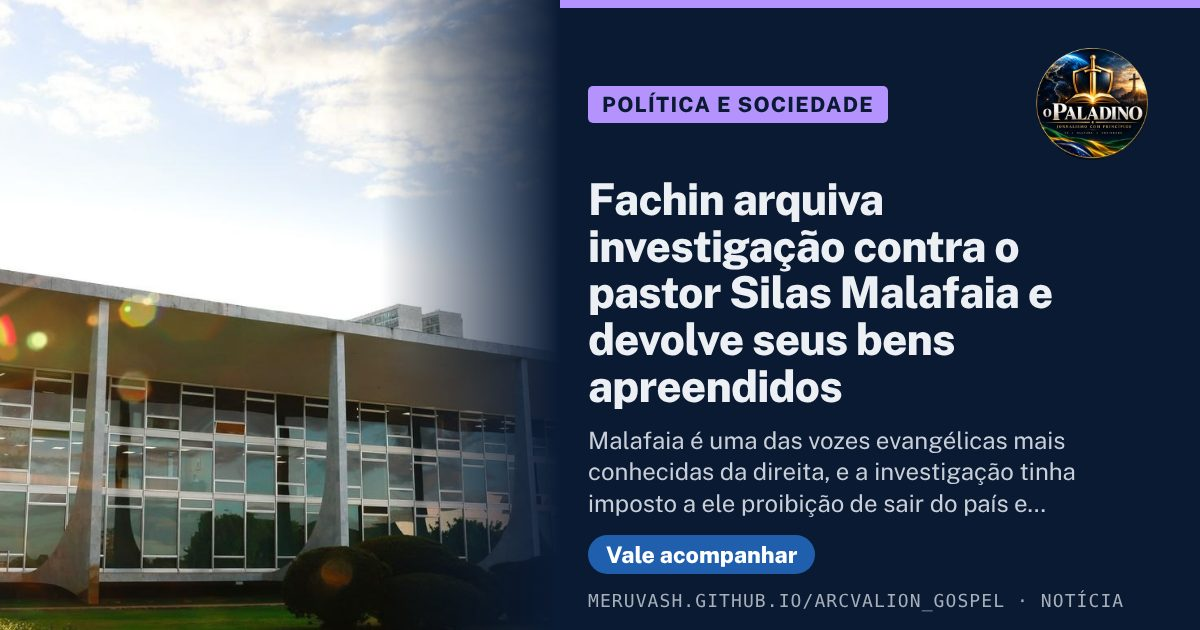
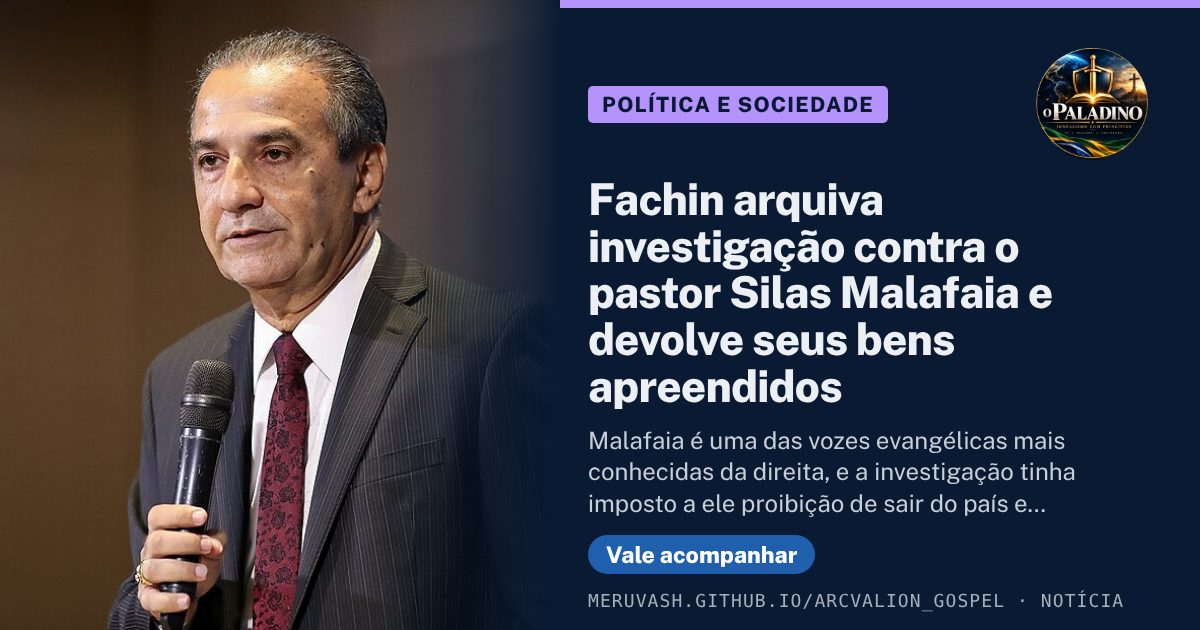
Notícia do Malafaia com foto do pastor (Marcos Corrêa, 2019, CC BY 2.0, via Wikimedia Commons)
Claude-Session: https://claude.ai/code/session_01BFQNqjMsQSaTiZZGcaG66D

diff --git a/noticias/index.html b/noticias/index.html
@@ -278,7 +278,7 @@ footer .in{display:flex;flex-wrap:wrap;gap:10px 20px;padding-top:18px;padding-bo
   <p class="opina"><span class="selo acompanhar">Vale acompanhar</span> A gente apoia o projeto: um em cada quatro brasileiros é evangélico, e a data que mudou o cristianismo cabe no calendário nacional. Mas feriado sem Bíblia aberta vira folga. O valor está em as igrejas usarem o dia para ensinar o que a Reforma devolveu ao povo.</p>
   <span class="meta">29 de outubro de 2026 · Senado Federal</span><span class="credito">Retrato de Martinho Lutero por Lucas Cranach, o Velho (1528), Veste Coburg, via Wikimedia Commons (domínio público)</span></div>
  </a></article>
- <ul class="grade-n"><li class="card-n" data-cat="politica-e-sociedade"><a href="../noticias/fachin-arquiva-investigacao-silas-malafaia/"><span class="ci"><img src="../noticias/capas/fachin-arquiva-investigacao-silas-malafaia.jpg" srcset="../img/noticias/capas/fachin-arquiva-investigacao-silas-malafaia-c439e912-480.webp 480w, ../noticias/capas/fachin-arquiva-investigacao-silas-malafaia.jpg 1600w" sizes="(min-width: 1000px) 270px, (min-width: 600px) 31vw, 46vw" alt="" loading="lazy" decoding="async"></span><span class="cb"><span class="cat financ">Política e Sociedade</span><h2>Fachin arquiva investigação contra o pastor Silas Malafaia e devolve seus bens apreendidos</h2><span class="selo acompanhar">Vale acompanhar</span><span class="resumo">Malafaia é uma das vozes evangélicas mais conhecidas da direita, e a investigação tinha imposto a ele proibição de sair do país e apreensão de bens desde agosto de 2025. O arquivamento, pedido pela própria PGR, mostra que a hipótese da investigação não se confirmou. Para quem acompanha a relação entre igreja, política e Judiciário, é um desfecho que precisa ser registrado com o mesmo destaque da acusação.</span><span class="meta">30/10 · Supremo Tribunal Federal</span></span></a></li><li class="card-n" data-cat="familia-e-valores"><a href="../noticias/stj-dna-nao-basta-trocar-pai-registro/"><span class="ci"><img src="../noticias/capas/stj-dna-nao-basta-trocar-pai-registro.jpg" srcset="../img/noticias/capas/stj-dna-nao-basta-trocar-pai-registro-a02378e7-480.webp 480w, ../noticias/capas/stj-dna-nao-basta-trocar-pai-registro.jpg 1600w" sizes="(min-width: 1000px) 270px, (min-width: 600px) 31vw, 46vw" alt="" loading="lazy" decoding="async"></span><span class="cb"><span class="cat brasil">Família e Valores</span><h2>STJ decide que DNA e acordo não bastam para trocar pai no registro de criança</h2><span class="selo compra">Boa notícia</span><span class="resumo">A decisão trata a paternidade como mais do que biologia ou papel assinado. Quem registrou e criou uma criança não some do documento por um acerto entre adultos. Para a família, é proteção: a criança não troca de pai no cartório sem que um juiz ouça o Ministério Público e examine a relação que ela já tem com quem a criou.</span><span class="meta">30/10 · Superior Tribunal de Justiça</span></span></a></li><li class="card-n" data-cat="politica-e-sociedade"><a href="../noticias/stf-derruba-regra-rondonia-minimo-educacao/"><span class="ci"><img src="../noticias/capas/stf-derruba-regra-rondonia-minimo-educacao.jpg" srcset="../img/noticias/capas/stf-derruba-regra-rondonia-minimo-educacao-c439e912-480.webp 480w, ../noticias/capas/stf-derruba-regra-rondonia-minimo-educacao.jpg 1600w" sizes="(min-width: 1000px) 270px, (min-width: 600px) 31vw, 46vw" alt="" loading="lazy" decoding="async"></span><span class="cb"><span class="cat financ">Política e Sociedade</span><h2>STF derruba regra que deixava Rondônia contar no mínimo da educação gastos pagos no ano seguinte</h2><span class="selo acompanhar">Vale acompanhar</span><span class="resumo">O piso de 25% para a educação só protege o aluno se for medido no ano certo. Gasto contado num ano e pago no outro deixa o Tribunal de Contas conferindo uma conta que ainda não fechou. Com a decisão, o dinheiro das escolas de Rondônia volta a ser medido pela régua da lei federal.</span><span class="meta">29/10 · Supremo Tribunal Federal</span></span></a></li><li class="card-n" data-cat="familia-e-valores"><a href="../noticias/virginia-pastor-processa-emenda-casamento/"><span class="ci"><img src="../noticias/capas/virginia-pastor-processa-emenda-casamento.jpg" srcset="../img/noticias/capas/virginia-pastor-processa-emenda-casamento-eeef7312-480.webp 480w, ../noticias/capas/virginia-pastor-processa-emenda-casamento.jpg 1280w" sizes="(min-width: 1000px) 270px, (min-width: 600px) 31vw, 46vw" alt="" loading="lazy" decoding="async"></span><span class="cb"><span class="cat brasil">Família e Valores</span><h2>Pastor da Virgínia pede à Justiça que invalide emenda do casamento votada na terça</h2><span class="selo acompanhar">Vale acompanhar</span><span class="resumo">O processo não discute a Bíblia, discute o rito, e é aí que mora a força dele: quem quer mudar a Constituição precisa cumprir a regra que a própria Constituição impõe. Defender o casamento passa por convencer pessoas, não por atalho. E a regra vale para os dois lados: quem cobra o rito não pode pedir exceção depois.</span><span class="meta">29/10 · Founding Freedoms Law Center</span></span></a></li><li class="card-n" data-cat="noticias-gospel"><a href="../noticias/bispos-eua-discipulos-de-jesus-primeiro/"><span class="ci"><img src="../noticias/capas/bispos-eua-discipulos-de-jesus-primeiro.jpg" srcset="../img/noticias/capas/bispos-eua-discipulos-de-jesus-primeiro-ffe4b426-480.webp 480w, ../noticias/capas/bispos-eua-discipulos-de-jesus-primeiro.jpg 720w" sizes="(min-width: 1000px) 270px, (min-width: 600px) 31vw, 46vw" alt="" loading="lazy" decoding="async"></span><span class="cb"><span class="cat mercado">Notícias Gospel</span><h2>Bispos dos EUA aos católicos antes da eleição: discípulos de Jesus primeiro, partido depois</h2><span class="selo fas">Para refletir</span><span class="resumo">A frase serve para cristão de qualquer país, inclusive o Brasil, que acabou de votar: o partido não é a igreja. Quem põe Cristo primeiro não precisa concordar com tudo de um lado para votar nele, nem demonizar quem votou diferente. Fé que só aparece em ano de eleição vira torcida.</span><span class="meta">29/10 · USCCB</span></span></a></li><li class="card-n" data-cat="politica-e-sociedade"><a href="../noticias/stf-audiencia-bets-dez-clubes-nenhum-orgao-de-saude/"><span class="ci"><img src="../noticias/capas/stf-audiencia-bets.jpg" srcset="../img/noticias/capas/stf-audiencia-bets-c439e912-480.webp 480w, ../noticias/capas/stf-audiencia-bets.jpg 1600w" sizes="(min-width: 1000px) 270px, (min-width: 600px) 31vw, 46vw" alt="" loading="lazy" decoding="async"></span><span class="cb"><span class="cat financ">Política e Sociedade</span><h2>STF ouvirá dez clubes e nenhum órgão de saúde na audiência sobre a proibição das bets</h2><span class="selo acompanhar">Vale acompanhar</span><span class="resumo">A tese da gente é simples: quem decide sobre vício precisa ouvir quem trata o vício. A própria exposição de motivos da MP fala em ansiedade, depressão, endividamento e risco de suicídio. Mesmo assim, o Ministério da Saúde não está na lista de oradores; a Portuguesa está, com dez minutos. A conta da aposta chega ao consultório; o microfone ficou no estádio.</span><span class="meta">29/10 · Supremo Tribunal Federal</span></span></a></li><li class="card-n" data-cat="politica-e-sociedade"><a href="../noticias/lesbocidio-pena-menor-que-feminicidio/"><span class="ci"><img src="../noticias/capas/lesbocidio-pena-menor-que-feminicidio.jpg" srcset="../img/noticias/capas/lesbocidio-pena-menor-que-feminicidio-4cffd854-480.webp 480w, ../noticias/capas/lesbocidio-pena-menor-que-feminicidio.jpg 1600w" sizes="(min-width: 1000px) 270px, (min-width: 600px) 31vw, 46vw" alt="" loading="lazy" decoding="async"></span><span class="cb"><span class="cat financ">Política e Sociedade</span><h2>Comissão da Câmara aprova crime de lesbocídio com pena menor que a do feminicídio</h2><span class="selo fas">Para refletir</span><span class="resumo">A conta que não aparece na notícia oficial da Câmara é simples: matar uma mulher por menosprezo à condição de mulher já dá de 20 a 40 anos. O projeto apresentado para proteger as lésbicas põe o crime na faixa de 12 a 30. Nome novo com pena menor não é proteção reforçada; é placa nova em porta velha.</span><span class="meta">29/10 · Câmara dos Deputados</span></span></a></li><li class="card-n" data-cat="familia-e-valores"><a href="../noticias/canada-c41-barra-eutanasia-por-doenca-mental/"><span class="ci"><img src="../noticias/capas/canada-c41-eutanasia.jpg" srcset="../img/noticias/capas/canada-c41-eutanasia-f837df2f-480.webp 480w, ../noticias/capas/canada-c41-eutanasia.jpg 1280w" sizes="(min-width: 1000px) 270px, (min-width: 600px) 31vw, 46vw" alt="" loading="lazy" decoding="async"></span><span class="cb"><span class="cat brasil">Família e Valores</span><h2>Canadá apresenta projeto que barra eutanásia só por doença mental, mas libera pedido antecipado</h2><span class="selo fas">Para refletir</span><span class="resumo">Desde 2016 o Canadá permite e vem ampliando a morte assistida. Recuar na doença mental mostra que os alertas de médicos e famílias pesaram. Só que o mesmo projeto abre outra porta, a do pedido antecipado, e o debate sobre o valor da vida no fim dela continua aberto.</span><span class="meta">29/10 · Governo do Canadá</span></span></a></li><li class="card-n" data-cat="noticias-gospel"><a href="../noticias/pew-religiao-estavel-jovens-eua/"><span class="ci"><img src="../noticias/capas/pew-religiao-jovens-eua.jpg" srcset="../img/noticias/capas/pew-religiao-jovens-eua-7a5e526b-480.webp 480w, ../noticias/capas/pew-religiao-jovens-eua.jpg 1280w" sizes="(min-width: 1000px) 270px, (min-width: 600px) 31vw, 46vw" alt="" loading="lazy" decoding="async"></span><span class="cb"><span class="cat mercado">Notícias Gospel</span><h2>Pew: religião se estabiliza nos EUA, e os adultos mais jovens vão mais à igreja</h2><span class="selo compra">Boa notícia</span><span class="resumo">Durante anos, a manchete foi a mesma: a igreja americana perde gente. Os números agora param de cair, e a geração mais nova volta aos bancos com mais frequência que a anterior. Não é avivamento, avisa o próprio instituto, mas é um freio que muita gente dava como impossível.</span><span class="meta">29/10 · Pew Research Center</span></span></a></li><li class="card-n" data-cat="familia-e-valores"><a href="../noticias/comissao-aprova-continuidade-estudos-vitimas-violencia-escola/"><span class="ci"><img src="../noticias/capas/camara-pl-2359-violencia-escolas.jpg" srcset="../img/noticias/capas/camara-pl-2359-violencia-escolas-d3634074-480.webp 480w, ../noticias/capas/camara-pl-2359-violencia-escolas.jpg 3244w" sizes="(min-width: 1000px) 270px, (min-width: 600px) 31vw, 46vw" alt="" loading="lazy" decoding="async"></span><span class="cb"><span class="cat brasil">Família e Valores</span><h2>Comissão da Câmara aprova regras para vítima de violência na escola continuar estudando</h2><span class="selo compra">Boa notícia</span><span class="resumo">Hoje, quem sofre violência na escola muitas vezes é quem acaba saindo dela, perdendo o ano e os amigos. O projeto inverte a lógica: a vítima fica protegida e continua estudando. Para pais e para quem cuida de crianças na igreja, é uma proteção concreta, e não só um discurso.</span><span class="meta">29/10 · Câmara dos Deputados</span></span></a></li></ul>
+ <ul class="grade-n"><li class="card-n" data-cat="politica-e-sociedade"><a href="../noticias/fachin-arquiva-investigacao-silas-malafaia/"><span class="ci"><img src="../noticias/capas/malafaia-2019.jpg" srcset="../img/noticias/capas/malafaia-2019-a55150c1-480.webp 480w, ../noticias/capas/malafaia-2019.jpg 960w" sizes="(min-width: 1000px) 270px, (min-width: 600px) 31vw, 46vw" alt="" loading="lazy" decoding="async"></span><span class="cb"><span class="cat financ">Política e Sociedade</span><h2>Fachin arquiva investigação contra o pastor Silas Malafaia e devolve seus bens apreendidos</h2><span class="selo acompanhar">Vale acompanhar</span><span class="resumo">Malafaia é uma das vozes evangélicas mais conhecidas da direita, e a investigação tinha imposto a ele proibição de sair do país e apreensão de bens desde agosto de 2025. O arquivamento, pedido pela própria PGR, mostra que a hipótese da investigação não se confirmou. Para quem acompanha a relação entre igreja, política e Judiciário, é um desfecho que precisa ser registrado com o mesmo destaque da acusação.</span><span class="meta">30/10 · Supremo Tribunal Federal</span></span></a></li><li class="card-n" data-cat="familia-e-valores"><a href="../noticias/stj-dna-nao-basta-trocar-pai-registro/"><span class="ci"><img src="../noticias/capas/stj-dna-nao-basta-trocar-pai-registro.jpg" srcset="../img/noticias/capas/stj-dna-nao-basta-trocar-pai-registro-a02378e7-480.webp 480w, ../noticias/capas/stj-dna-nao-basta-trocar-pai-registro.jpg 1600w" sizes="(min-width: 1000px) 270px, (min-width: 600px) 31vw, 46vw" alt="" loading="lazy" decoding="async"></span><span class="cb"><span class="cat brasil">Família e Valores</span><h2>STJ decide que DNA e acordo não bastam para trocar pai no registro de criança</h2><span class="selo compra">Boa notícia</span><span class="resumo">A decisão trata a paternidade como mais do que biologia ou papel assinado. Quem registrou e criou uma criança não some do documento por um acerto entre adultos. Para a família, é proteção: a criança não troca de pai no cartório sem que um juiz ouça o Ministério Público e examine a relação que ela já tem com quem a criou.</span><span class="meta">30/10 · Superior Tribunal de Justiça</span></span></a></li><li class="card-n" data-cat="politica-e-sociedade"><a href="../noticias/stf-derruba-regra-rondonia-minimo-educacao/"><span class="ci"><img src="../noticias/capas/stf-derruba-regra-rondonia-minimo-educacao.jpg" srcset="../img/noticias/capas/stf-derruba-regra-rondonia-minimo-educacao-c439e912-480.webp 480w, ../noticias/capas/stf-derruba-regra-rondonia-minimo-educacao.jpg 1600w" sizes="(min-width: 1000px) 270px, (min-width: 600px) 31vw, 46vw" alt="" loading="lazy" decoding="async"></span><span class="cb"><span class="cat financ">Política e Sociedade</span><h2>STF derruba regra que deixava Rondônia contar no mínimo da educação gastos pagos no ano seguinte</h2><span class="selo acompanhar">Vale acompanhar</span><span class="resumo">O piso de 25% para a educação só protege o aluno se for medido no ano certo. Gasto contado num ano e pago no outro deixa o Tribunal de Contas conferindo uma conta que ainda não fechou. Com a decisão, o dinheiro das escolas de Rondônia volta a ser medido pela régua da lei federal.</span><span class="meta">29/10 · Supremo Tribunal Federal</span></span></a></li><li class="card-n" data-cat="familia-e-valores"><a href="../noticias/virginia-pastor-processa-emenda-casamento/"><span class="ci"><img src="../noticias/capas/virginia-pastor-processa-emenda-casamento.jpg" srcset="../img/noticias/capas/virginia-pastor-processa-emenda-casamento-eeef7312-480.webp 480w, ../noticias/capas/virginia-pastor-processa-emenda-casamento.jpg 1280w" sizes="(min-width: 1000px) 270px, (min-width: 600px) 31vw, 46vw" alt="" loading="lazy" decoding="async"></span><span class="cb"><span class="cat brasil">Família e Valores</span><h2>Pastor da Virgínia pede à Justiça que invalide emenda do casamento votada na terça</h2><span class="selo acompanhar">Vale acompanhar</span><span class="resumo">O processo não discute a Bíblia, discute o rito, e é aí que mora a força dele: quem quer mudar a Constituição precisa cumprir a regra que a própria Constituição impõe. Defender o casamento passa por convencer pessoas, não por atalho. E a regra vale para os dois lados: quem cobra o rito não pode pedir exceção depois.</span><span class="meta">29/10 · Founding Freedoms Law Center</span></span></a></li><li class="card-n" data-cat="noticias-gospel"><a href="../noticias/bispos-eua-discipulos-de-jesus-primeiro/"><span class="ci"><img src="../noticias/capas/bispos-eua-discipulos-de-jesus-primeiro.jpg" srcset="../img/noticias/capas/bispos-eua-discipulos-de-jesus-primeiro-ffe4b426-480.webp 480w, ../noticias/capas/bispos-eua-discipulos-de-jesus-primeiro.jpg 720w" sizes="(min-width: 1000px) 270px, (min-width: 600px) 31vw, 46vw" alt="" loading="lazy" decoding="async"></span><span class="cb"><span class="cat mercado">Notícias Gospel</span><h2>Bispos dos EUA aos católicos antes da eleição: discípulos de Jesus primeiro, partido depois</h2><span class="selo fas">Para refletir</span><span class="resumo">A frase serve para cristão de qualquer país, inclusive o Brasil, que acabou de votar: o partido não é a igreja. Quem põe Cristo primeiro não precisa concordar com tudo de um lado para votar nele, nem demonizar quem votou diferente. Fé que só aparece em ano de eleição vira torcida.</span><span class="meta">29/10 · USCCB</span></span></a></li><li class="card-n" data-cat="politica-e-sociedade"><a href="../noticias/stf-audiencia-bets-dez-clubes-nenhum-orgao-de-saude/"><span class="ci"><img src="../noticias/capas/stf-audiencia-bets.jpg" srcset="../img/noticias/capas/stf-audiencia-bets-c439e912-480.webp 480w, ../noticias/capas/stf-audiencia-bets.jpg 1600w" sizes="(min-width: 1000px) 270px, (min-width: 600px) 31vw, 46vw" alt="" loading="lazy" decoding="async"></span><span class="cb"><span class="cat financ">Política e Sociedade</span><h2>STF ouvirá dez clubes e nenhum órgão de saúde na audiência sobre a proibição das bets</h2><span class="selo acompanhar">Vale acompanhar</span><span class="resumo">A tese da gente é simples: quem decide sobre vício precisa ouvir quem trata o vício. A própria exposição de motivos da MP fala em ansiedade, depressão, endividamento e risco de suicídio. Mesmo assim, o Ministério da Saúde não está na lista de oradores; a Portuguesa está, com dez minutos. A conta da aposta chega ao consultório; o microfone ficou no estádio.</span><span class="meta">29/10 · Supremo Tribunal Federal</span></span></a></li><li class="card-n" data-cat="politica-e-sociedade"><a href="../noticias/lesbocidio-pena-menor-que-feminicidio/"><span class="ci"><img src="../noticias/capas/lesbocidio-pena-menor-que-feminicidio.jpg" srcset="../img/noticias/capas/lesbocidio-pena-menor-que-feminicidio-4cffd854-480.webp 480w, ../noticias/capas/lesbocidio-pena-menor-que-feminicidio.jpg 1600w" sizes="(min-width: 1000px) 270px, (min-width: 600px) 31vw, 46vw" alt="" loading="lazy" decoding="async"></span><span class="cb"><span class="cat financ">Política e Sociedade</span><h2>Comissão da Câmara aprova crime de lesbocídio com pena menor que a do feminicídio</h2><span class="selo fas">Para refletir</span><span class="resumo">A conta que não aparece na notícia oficial da Câmara é simples: matar uma mulher por menosprezo à condição de mulher já dá de 20 a 40 anos. O projeto apresentado para proteger as lésbicas põe o crime na faixa de 12 a 30. Nome novo com pena menor não é proteção reforçada; é placa nova em porta velha.</span><span class="meta">29/10 · Câmara dos Deputados</span></span></a></li><li class="card-n" data-cat="familia-e-valores"><a href="../noticias/canada-c41-barra-eutanasia-por-doenca-mental/"><span class="ci"><img src="../noticias/capas/canada-c41-eutanasia.jpg" srcset="../img/noticias/capas/canada-c41-eutanasia-f837df2f-480.webp 480w, ../noticias/capas/canada-c41-eutanasia.jpg 1280w" sizes="(min-width: 1000px) 270px, (min-width: 600px) 31vw, 46vw" alt="" loading="lazy" decoding="async"></span><span class="cb"><span class="cat brasil">Família e Valores</span><h2>Canadá apresenta projeto que barra eutanásia só por doença mental, mas libera pedido antecipado</h2><span class="selo fas">Para refletir</span><span class="resumo">Desde 2016 o Canadá permite e vem ampliando a morte assistida. Recuar na doença mental mostra que os alertas de médicos e famílias pesaram. Só que o mesmo projeto abre outra porta, a do pedido antecipado, e o debate sobre o valor da vida no fim dela continua aberto.</span><span class="meta">29/10 · Governo do Canadá</span></span></a></li><li class="card-n" data-cat="noticias-gospel"><a href="../noticias/pew-religiao-estavel-jovens-eua/"><span class="ci"><img src="../noticias/capas/pew-religiao-jovens-eua.jpg" srcset="../img/noticias/capas/pew-religiao-jovens-eua-7a5e526b-480.webp 480w, ../noticias/capas/pew-religiao-jovens-eua.jpg 1280w" sizes="(min-width: 1000px) 270px, (min-width: 600px) 31vw, 46vw" alt="" loading="lazy" decoding="async"></span><span class="cb"><span class="cat mercado">Notícias Gospel</span><h2>Pew: religião se estabiliza nos EUA, e os adultos mais jovens vão mais à igreja</h2><span class="selo compra">Boa notícia</span><span class="resumo">Durante anos, a manchete foi a mesma: a igreja americana perde gente. Os números agora param de cair, e a geração mais nova volta aos bancos com mais frequência que a anterior. Não é avivamento, avisa o próprio instituto, mas é um freio que muita gente dava como impossível.</span><span class="meta">29/10 · Pew Research Center</span></span></a></li><li class="card-n" data-cat="familia-e-valores"><a href="../noticias/comissao-aprova-continuidade-estudos-vitimas-violencia-escola/"><span class="ci"><img src="../noticias/capas/camara-pl-2359-violencia-escolas.jpg" srcset="../img/noticias/capas/camara-pl-2359-violencia-escolas-d3634074-480.webp 480w, ../noticias/capas/camara-pl-2359-violencia-escolas.jpg 3244w" sizes="(min-width: 1000px) 270px, (min-width: 600px) 31vw, 46vw" alt="" loading="lazy" decoding="async"></span><span class="cb"><span class="cat brasil">Família e Valores</span><h2>Comissão da Câmara aprova regras para vítima de violência na escola continuar estudando</h2><span class="selo compra">Boa notícia</span><span class="resumo">Hoje, quem sofre violência na escola muitas vezes é quem acaba saindo dela, perdendo o ano e os amigos. O projeto inverte a lógica: a vítima fica protegida e continua estudando. Para pais e para quem cuida de crianças na igreja, é uma proteção concreta, e não só um discurso.</span><span class="meta">29/10 · Câmara dos Deputados</span></span></a></li></ul>
  
  <script>(()=>{const g=document.querySelector('.cats');if(!g)return;
 const lis=[...document.querySelectorAll('.arq [data-cat]')],nota=document.querySelector('.cat-nota');

diff --git a/noticias/fachin-arquiva-investigacao-silas-malafaia/index.html b/noticias/fachin-arquiva-investigacao-silas-malafaia/index.html
@@ -13,7 +13,7 @@
 <meta property="og:description" content="O presidente do Supremo Tribunal Federal, Edson Fachin, arquivou a investigação que apurava se o pastor Silas Malafaia participou do crime de coação no curso do processo atribuído a Eduardo Bolsonaro e Paulo Figueiredo. A decisão, divulgada pelo STF em 27 de outubro, atende a pedido da Procuradoria-Geral da República e revoga as medidas cautelares contra o pastor.">
 <meta property="og:type" content="article">
 <meta property="og:url" content="https://meruvash.github.io/Arcvalion_gospel/noticias/fachin-arquiva-investigacao-silas-malafaia/">
-<meta property="og:image" content="https://meruvash.github.io/Arcvalion_gospel/img/og/noticia-fachin-arquiva-investigacao-silas-malafaia.jpg?v=14ed8bdf">
+<meta property="og:image" content="https://meruvash.github.io/Arcvalion_gospel/img/og/noticia-fachin-arquiva-investigacao-silas-malafaia.jpg?v=f336ca25">
 <meta property="og:image:width" content="1200">
 <meta property="og:image:height" content="630">
 <meta name="twitter:card" content="summary_large_image">
@@ -258,7 +258,7 @@ footer .in{display:flex;flex-wrap:wrap;gap:10px 20px;padding-top:18px;padding-bo
 .nota .crivo{background:var(--faixa-escura);border:1px solid #1e3a64;--paper-ink:#eceff3;--paper-muted:#a7afbb}
 .nota .crivo p,.nota .crivo li{color:#c9cfd8}.nota .crivo ul{margin-top:8px;display:grid;gap:4px;padding-left:18px;font-size:.85rem}
 .trilha{min-width:0;max-width:100%}.trilha ol{display:flex;align-items:center;min-width:0;margin:0;padding:0;list-style:none;font-size:.85rem;color:var(--muted)}.trilha li{display:flex;align-items:center;white-space:nowrap}.trilha li+li::before{content:"›";content:"›" / "";margin:0 8px;color:var(--muted)}.trilha a{color:var(--gold);font-weight:700;text-decoration:none;padding:4px 0}.trilha a:hover{text-decoration:underline}.trilha li:last-child{display:block;min-width:0;overflow:hidden;text-overflow:ellipsis}.trilha li:last-child::before{display:inline}.busca-btn{display:grid;place-items:center;flex:none;width:44px;height:44px;padding:0;border:1px solid #2e4d7a;border-radius:8px;background:none;color:#e9ecf1;cursor:pointer}.busca-btn:hover{border-color:#e3b23c;color:#e3b23c}.busca-btn[hidden]{display:none}footer .in a{display:inline-flex;align-items:center;min-height:24px}.cpw{position:relative;display:inline-block}.cp{display:inline-flex;align-items:center;justify-content:center;gap:8px;box-sizing:border-box;line-height:1.2;min-height:44px;margin:0;padding:10px 20px;border-radius:999px;border:0;background:#157a43;color:#fff;font:inherit;font-size:.95rem;font-weight:800;text-decoration:none;cursor:pointer}.cp:hover{background:#11683a;color:#fff}.cp .ic{width:19px;height:19px}.cp[hidden]{display:none}.cpw.mini .cp{min-height:40px;padding:8px 14px;font-size:.88rem}.cp-menu{position:absolute;z-index:30;top:calc(100% + 8px);left:0;min-width:200px;display:grid;gap:2px;padding:6px;border-radius:12px;background:#fff;border:1px solid #dde1e7;box-shadow:0 10px 30px rgba(0,0,0,.25)}.cp-menu[hidden]{display:none}.cp-menu.sobe{top:auto;bottom:calc(100% + 8px)}.cp-menu.dir{left:auto;right:0}.cp-op{display:flex;align-items:center;gap:10px;min-height:44px;padding:8px 12px;border:0;border-radius:8px;background:none;color:#14171c;font:inherit;font-size:.95rem;font-weight:700;text-align:left;text-decoration:none;cursor:pointer}.cp-op:hover,.cp-op:focus-visible{background:#eef1f4;color:#14171c}.cp-op .ic{width:20px;height:20px}.cp-op.zap-op .ic{color:#157a43}.cp-st{position:absolute;z-index:30;top:calc(100% + 8px);left:0;white-space:nowrap;margin:0;padding:6px 12px;border-radius:8px;background:#0a1a33;color:#fff;font-size:.85rem;font-weight:700}.cp-st:empty{display:none}.barra-lt .cp-st{top:auto;bottom:calc(100% + 8px)}.convite{display:flex;align-items:center;justify-content:space-between;gap:12px 20px;flex-wrap:wrap}.convite .cv-t{margin:0;font-weight:800;font-size:1.1rem}.convite .cv-s{margin:2px 0 0;font-size:.92rem;opacity:.8}.barra-lt{position:fixed;z-index:25;left:50%;bottom:calc(12px + env(safe-area-inset-bottom));display:flex;align-items:center;gap:4px;padding:5px;border-radius:999px;background:#0a1a33;border:1px solid #2e4d7a;box-shadow:0 8px 24px rgba(0,0,0,.35);transform:translate(-50%,0);transition:transform .25s ease,opacity .25s ease}.barra-lt.fora{transform:translate(-50%,calc(100% + 24px));opacity:0;pointer-events:none}.lt-b{display:inline-flex;align-items:center;gap:7px;min-height:44px;padding:8px 14px;border:0;border-radius:999px;background:none;color:#e9ecf1;font:inherit;font-size:.9rem;font-weight:700;text-decoration:none;cursor:pointer}.lt-b:hover{background:#262a31;color:#fff}.lt-b .ic{width:20px;height:20px}.barra-lt .lt-b.curtir{background:none;border:0;color:#e9ecf1;padding:8px 14px}.barra-lt .lt-b.curtir[aria-pressed=true]{color:#ff6b81;background:none}@media (max-width:479px){.lt-b span{position:absolute;width:1px;height:1px;overflow:hidden;clip-path:inset(50%);white-space:nowrap}}.lt-b.curtir[aria-pressed=true] .ic{fill:currentColor}.lt-grupo{display:inline-flex;align-items:center;justify-content:center;gap:6px;min-width:44px;min-height:44px;padding:0 12px;border-radius:999px;background:#e3b23c;color:#14171c;font-size:.9rem;font-weight:800;text-decoration:none}.lt-grupo:hover{background:#f0c44f;color:#14171c}.lt-grupo .ic{width:22px;height:22px}@media (max-width:479px){.lt-grupo{padding:0}.lt-grupo span{display:none}}.barra-lt .cp{min-height:44px;padding:8px 16px;font-size:.9rem}body.lt-on .voltar-topo,body.lt-on button.sobe{bottom:calc(76px + env(safe-area-inset-bottom))}@media print{.barra-lt{display:none}}.interacoes{display:grid;gap:14px}.interacoes[hidden]{display:none}.curtir-l{display:flex;align-items:center;gap:12px;flex-wrap:wrap}.curtir{display:inline-flex;align-items:center;gap:8px;min-height:44px;padding:8px 18px;border-radius:999px;border:2px solid #b3263e;background:#fff;color:#b3263e;font:inherit;font-weight:800;cursor:pointer}.curtir .ic{width:22px;height:22px}.curtir[aria-pressed=true]{background:#b3263e;color:#fff}.curtir[aria-pressed=true] .ic{fill:currentColor}.curtir .n{font-variant-numeric:tabular-nums}.curtir-dica{font-size:.9rem;color:#5a6270}.interacoes h2{margin:4px 0 0}.coms{list-style:none;margin:0;padding:0;display:grid;gap:10px}.coms li{background:#fff;border:1px solid #dde1e7;border-radius:10px;padding:12px 14px}.com-quem{margin:0;font-size:.92rem}.com-quem time{color:#5a6270;font-size:.8rem;margin-left:6px}.com-txt{margin:4px 0 0;white-space:pre-wrap;color:#14171c}.coms-vazio{margin:0;color:#5a6270}.com-form{display:grid;gap:10px;border-top:1px solid #dde1e7;padding-top:14px}.com-form label{display:grid;gap:4px;font-weight:700;font-size:.9rem;color:#14171c}.com-form small{font-weight:600;color:#5a6270}.com-form input,.com-form textarea{font:inherit;font-size:16px;font-weight:400;padding:10px 12px;border:1px solid #c8cdd5;border-radius:8px;background:#fff;color:#14171c}.com-form textarea{resize:vertical;min-height:110px}.com-form .isca{position:absolute;left:-9999px;width:1px;height:1px;overflow:hidden}.com-form button{justify-self:start;min-height:44px;padding:10px 20px;border-radius:999px;border:0;background:#0a1a33;color:#fff;font:inherit;font-weight:800;cursor:pointer}.com-form button:disabled{opacity:.6}.com-aviso{margin:0;font-size:.82rem;color:#5a6270}.com-aviso a{color:#1f5fae}.com-st{margin:0;font-weight:700;font-size:.92rem}.com-st:empty{display:none}.com-st.ok{color:#1b7a45}.com-st.erro{color:#a3223a}:where(html){scroll-padding-top:calc(var(--nav-h,49px) + 12px)}.nav{position:sticky;top:0;z-index:20}body .abas,body .barra-f,body .ctrl{top:var(--nav-h,49px)}.nav .casa{display:flex;align-items:center;justify-content:center;min-width:44px}.nav .casa .ic{width:20px;height:20px}@media (prefers-reduced-motion:reduce){*,*::before,*::after{animation-duration:.01ms!important;animation-iteration-count:1!important;transition-duration:.01ms!important;scroll-behavior:auto!important}.card:hover,.jogo:hover .capa img,.jogo:active .capa,.zap:active,.post-btn:active,.btn-filtro:hover,.btn-filtro:active,.ver:active{transform:none!important}}</style>
-<script type="application/ld+json">{"@context": "https://schema.org", "@graph": [{"@type": "Organization", "@id": "https://meruvash.github.io/Arcvalion_gospel/#organizacao", "name": "O Paladino", "url": "https://meruvash.github.io/Arcvalion_gospel/", "logo": {"@type": "ImageObject", "url": "https://meruvash.github.io/Arcvalion_gospel/marca/o-paladino.webp", "width": 320, "height": 320}, "sameAs": []}, {"@type": "NewsArticle", "@id": "https://meruvash.github.io/Arcvalion_gospel/noticias/fachin-arquiva-investigacao-silas-malafaia/#artigo", "mainEntityOfPage": "https://meruvash.github.io/Arcvalion_gospel/noticias/fachin-arquiva-investigacao-silas-malafaia/", "headline": "Fachin arquiva investigação contra o pastor Silas Malafaia e devolve seus bens apreendidos", "description": "O presidente do Supremo Tribunal Federal, Edson Fachin, arquivou a investigação que apurava se o pastor Silas Malafaia participou do crime de coação no curso do processo atribuído a Eduardo Bolsonaro e Paulo Figueiredo. A decisão, divulgada pelo STF em 27 de outubro, atende a pedido da Procuradoria-Geral da República e revoga as medidas cautelares contra o pastor.", "image": ["https://meruvash.github.io/Arcvalion_gospel/noticias/capas/fachin-arquiva-investigacao-silas-malafaia.jpg"], "datePublished": "2026-10-30T00:29:05-03:00", "author": {"@type": "Organization", "name": "Redação O Paladino", "url": "https://meruvash.github.io/Arcvalion_gospel/politica-editorial/"}, "publisher": {"@id": "https://meruvash.github.io/Arcvalion_gospel/#organizacao"}, "inLanguage": "pt-BR"}, {"@type": "BreadcrumbList", "itemListElement": [{"@type": "ListItem", "position": 1, "name": "Início", "item": "https://meruvash.github.io/Arcvalion_gospel/"}, {"@type": "ListItem", "position": 2, "name": "Notícias", "item": "https://meruvash.github.io/Arcvalion_gospel/noticias/"}, {"@type": "ListItem", "position": 3, "name": "Fachin arquiva investigação contra o pastor Silas Malafaia e devolve seus bens apreendidos", "item": "https://meruvash.github.io/Arcvalion_gospel/noticias/fachin-arquiva-investigacao-silas-malafaia/"}]}]}</script>
+<script type="application/ld+json">{"@context": "https://schema.org", "@graph": [{"@type": "Organization", "@id": "https://meruvash.github.io/Arcvalion_gospel/#organizacao", "name": "O Paladino", "url": "https://meruvash.github.io/Arcvalion_gospel/", "logo": {"@type": "ImageObject", "url": "https://meruvash.github.io/Arcvalion_gospel/marca/o-paladino.webp", "width": 320, "height": 320}, "sameAs": []}, {"@type": "NewsArticle", "@id": "https://meruvash.github.io/Arcvalion_gospel/noticias/fachin-arquiva-investigacao-silas-malafaia/#artigo", "mainEntityOfPage": "https://meruvash.github.io/Arcvalion_gospel/noticias/fachin-arquiva-investigacao-silas-malafaia/", "headline": "Fachin arquiva investigação contra o pastor Silas Malafaia e devolve seus bens apreendidos", "description": "O presidente do Supremo Tribunal Federal, Edson Fachin, arquivou a investigação que apurava se o pastor Silas Malafaia participou do crime de coação no curso do processo atribuído a Eduardo Bolsonaro e Paulo Figueiredo. A decisão, divulgada pelo STF em 27 de outubro, atende a pedido da Procuradoria-Geral da República e revoga as medidas cautelares contra o pastor.", "image": ["https://meruvash.github.io/Arcvalion_gospel/img/discover/malafaia-2019-a55150c1-1200.jpg", "https://meruvash.github.io/Arcvalion_gospel/noticias/capas/malafaia-2019.jpg"], "datePublished": "2026-10-30T00:29:05-03:00", "author": {"@type": "Organization", "name": "Redação O Paladino", "url": "https://meruvash.github.io/Arcvalion_gospel/politica-editorial/"}, "publisher": {"@id": "https://meruvash.github.io/Arcvalion_gospel/#organizacao"}, "inLanguage": "pt-BR", "dateModified": "2026-10-30T03:35:33+00:00"}, {"@type": "BreadcrumbList", "itemListElement": [{"@type": "ListItem", "position": 1, "name": "Início", "item": "https://meruvash.github.io/Arcvalion_gospel/"}, {"@type": "ListItem", "position": 2, "name": "Notícias", "item": "https://meruvash.github.io/Arcvalion_gospel/noticias/"}, {"@type": "ListItem", "position": 3, "name": "Fachin arquiva investigação contra o pastor Silas Malafaia e devolve seus bens apreendidos", "item": "https://meruvash.github.io/Arcvalion_gospel/noticias/fachin-arquiva-investigacao-silas-malafaia/"}]}]}</script>
 </head>
 <body>
 <header class="bar" id="topo"><div class="in">
@@ -277,7 +277,7 @@ footer .in{display:flex;flex-wrap:wrap;gap:10px 20px;padding-top:18px;padding-bo
   <h1>Fachin arquiva investigação contra o pastor Silas Malafaia e devolve seus bens apreendidos</h1>
   <p class="meta"><time datetime="2026-10-30T00:29:05-03:00">30 de outubro de 2026</time> · Redação O Paladino</p>
  </article>
- <div class="bloco abre"><figure><img src="../../noticias/capas/fachin-arquiva-investigacao-silas-malafaia.jpg" srcset="../../img/noticias/capas/fachin-arquiva-investigacao-silas-malafaia-c439e912-480.webp 480w, ../../img/noticias/capas/fachin-arquiva-investigacao-silas-malafaia-c439e912-800.webp 800w, ../../img/noticias/capas/fachin-arquiva-investigacao-silas-malafaia-c439e912-1200.webp 1200w, ../../noticias/capas/fachin-arquiva-investigacao-silas-malafaia.jpg 1600w" sizes="(min-width: 760px) 720px, 100vw" alt="Fachin arquiva investigação contra o pastor Silas Malafaia e devolve seus bens apreendidos"><figcaption class="credito">Foto de arquivo: Andressa Anholete/Agência Brasil</figcaption></figure><p class="lide">O presidente do Supremo Tribunal Federal, Edson Fachin, arquivou a investigação que apurava se o pastor Silas Malafaia participou do crime de coação no curso do processo atribuído a Eduardo Bolsonaro e Paulo Figueiredo. A decisão, divulgada pelo STF em 27 de outubro, atende a pedido da Procuradoria-Geral da República e revoga as medidas cautelares contra o pastor.</p></div>
+ <div class="bloco abre"><figure><img src="../../noticias/capas/malafaia-2019.jpg" srcset="../../img/noticias/capas/malafaia-2019-a55150c1-480.webp 480w, ../../img/noticias/capas/malafaia-2019-a55150c1-800.webp 800w, ../../noticias/capas/malafaia-2019.jpg 960w" sizes="(min-width: 760px) 720px, 100vw" alt="Fachin arquiva investigação contra o pastor Silas Malafaia e devolve seus bens apreendidos"><figcaption class="credito">Foto de arquivo (2019): Marcos Corrêa, via Wikimedia Commons (CC BY 2.0)</figcaption></figure><p class="lide">O presidente do Supremo Tribunal Federal, Edson Fachin, arquivou a investigação que apurava se o pastor Silas Malafaia participou do crime de coação no curso do processo atribuído a Eduardo Bolsonaro e Paulo Figueiredo. A decisão, divulgada pelo STF em 27 de outubro, atende a pedido da Procuradoria-Geral da República e revoga as medidas cautelares contra o pastor.</p></div>
  <section class="bloco importa"><h2>Por que importa</h2><p>Malafaia é uma das vozes evangélicas mais conhecidas da direita, e a investigação tinha imposto a ele proibição de sair do país e apreensão de bens desde agosto de 2025. O arquivamento, pedido pela própria PGR, mostra que a hipótese da investigação não se confirmou. Para quem acompanha a relação entre igreja, política e Judiciário, é um desfecho que precisa ser registrado com o mesmo destaque da acusação.</p><p class="assina">Análise O Paladino</p></section>
  <section class="bloco"><h2>Em números</h2><ul class="nums"><li><b>Pet 14.305</b><span>procedimento em que Fachin arquivou a investigação sobre Malafaia</span><small>STF</small></li><li><b>105</b><span>procedimentos do inquérito das fake news que passaram de Alexandre de Moraes para a Presidência do STF em 9/9/2026, entre eles este</span><small>Decisão na Pet 14.305</small></li><li><b>19/08/2026</b><span>data em que a PGR pediu o arquivamento por ausência de justa causa</span><small>Decisão na Pet 14.305</small></li></ul></section>
  <section class="bloco"><h2>Contexto</h2><div class="corpo"><p>Malafaia era investigado por suposta participação no crime de coação no curso do processo atribuído a Eduardo Bolsonaro e Paulo Figueiredo, acusados pela PGR de articular no exterior sanções contra autoridades brasileiras para embaraçar o andamento da Ação Penal 2.668. As medidas cautelares contra o pastor foram decretadas em agosto de 2025 pelo então relator, Alexandre de Moraes.</p><p>Na manifestação transcrita na decisão, a PGR diz que as mensagens de Malafaia a Jair Bolsonaro tinham sugestões de estratégia e ofertas de ajuda, mas não mostram que tenham determinado os atos de Eduardo e Figueiredo. Fachin acolheu o pedido, lembrando que o STF, em regra, aceita o arquivamento pedido pelo Ministério Público. A investigação pode ser reaberta se surgirem novas provas, como prevê o artigo 18 do Código de Processo Penal.</p></div></section>

diff --git a/index.html b/index.html
@@ -278,7 +278,7 @@ footer .in{display:flex;flex-wrap:wrap;gap:10px 20px;padding-top:18px;padding-bo
   <p class="opina"><span class="selo acompanhar">Vale acompanhar</span> A gente apoia o projeto: um em cada quatro brasileiros é evangélico, e a data que mudou o cristianismo cabe no calendário nacional. Mas feriado sem Bíblia aberta vira folga. O valor está em as igrejas usarem o dia para ensinar o que a Reforma devolveu ao povo.</p>
   <span class="meta">29 de outubro de 2026 · Senado Federal</span><span class="credito">Retrato de Martinho Lutero por Lucas Cranach, o Velho (1528), Veste Coburg, via Wikimedia Commons (domínio público)</span></div>
  </a></article>
-  <section class="bloco ultimas"><h2>Últimas notícias <a href="noticias/">Ver todas (11)</a></h2><ul class="lista-n"><li data-cat="politica-e-sociedade"><a href="noticias/fachin-arquiva-investigacao-silas-malafaia/"><img src="img/noticias/capas/fachin-arquiva-investigacao-silas-malafaia-c439e912-160.webp" width="76" height="76" alt="" loading="lazy">
+  <section class="bloco ultimas"><h2>Últimas notícias <a href="noticias/">Ver todas (11)</a></h2><ul class="lista-n"><li data-cat="politica-e-sociedade"><a href="noticias/fachin-arquiva-investigacao-silas-malafaia/"><img src="img/noticias/capas/malafaia-2019-a55150c1-160.webp" width="76" height="76" alt="" loading="lazy">
    <div><span class="cat financ">Política e Sociedade</span> <span class="meta">30/10 · Supremo Tribunal Federal</span>
    <h3>Fachin arquiva investigação contra o pastor Silas Malafaia e devolve seus bens apreendidos</h3><p><span class="selo acompanhar">Vale acompanhar</span> <span class="resumo">Malafaia é uma das vozes evangélicas mais conhecidas da direita, e a investigação tinha imposto a ele proibição de sair do país e apreensão de bens desde agosto de 2025. O arquivamento, pedido pela própria PGR, mostra que a hipótese da investigação não se confirmou. Para quem acompanha a relação entre igreja, política e Judiciário, é um desfecho que precisa ser registrado com o mesmo destaque da acusação.</span></p></div></a></li><li data-cat="familia-e-valores"><a href="noticias/stj-dna-nao-basta-trocar-pai-registro/"><img src="img/noticias/capas/stj-dna-nao-basta-trocar-pai-registro-a02378e7-160.webp" width="76" height="76" alt="" loading="lazy">
    <div><span class="cat brasil">Família e Valores</span> <span class="meta">30/10 · Superior Tribunal de Justiça</span>
